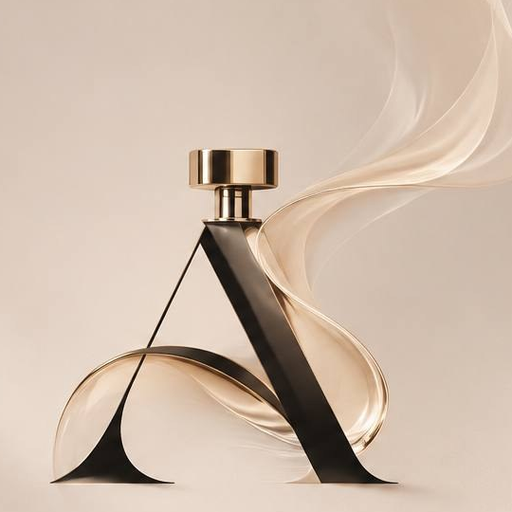
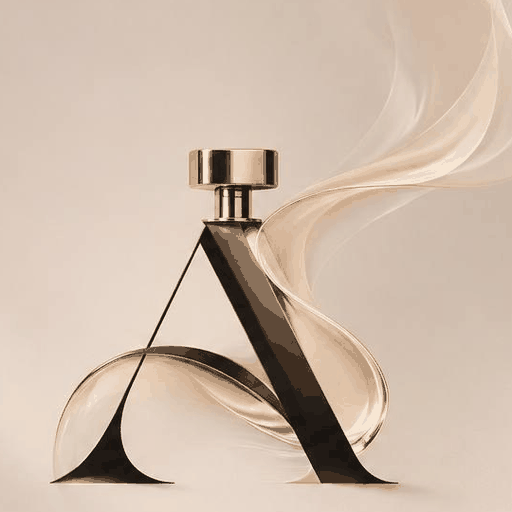
Мобильная версия: первый экран, зоны нажатия, поля 16px, WebP и лёгкая отрисовка
- картинка первого экрана больше не растягивается по высоте: заголовок и поиск видны сразу
- изображения в WebP с уменьшенными версиями для телефона, предзагрузка картинки главной
- поля ввода 16px (iOS не увеличивает страницу), зоны нажатия от 44px
- на телефоне без размытия под шапкой и двойных теней, секции ниже экрана рисуются по мере прокрутки
- эффекты наведения только для устройств с курсором

Claude-Session: https://claude.ai/code/session_01EamBPJPH8KeKa6rHJzHxQq

diff --git a/assets/css/style.css b/assets/css/style.css
@@ -34,6 +34,7 @@ img, svg { display: block; max-width: 100%; }
 a { color: inherit; text-decoration: none; }
 button, input, select, textarea { font: inherit; color: inherit; }
 button { cursor: pointer; background: none; border: 0; padding: 0; }
+a, button, label, summary, input, select { -webkit-tap-highlight-color: transparent; touch-action: manipulation; }
 h1, h2, h3, p, ul, dl, dd, fieldset, legend { margin: 0; padding: 0; }
 fieldset { border: 0; min-width: 0; }
 ul { list-style: none; }
@@ -185,7 +186,7 @@ main { min-height: 60vh; padding-bottom: clamp(72px, 10vw, 140px); }
 }
 .hero__art { position: relative; }
 .hero__art img {
-  width: 138%; max-width: none; margin-left: -10%; aspect-ratio: 10 / 7; object-fit: cover;
+  width: 138%; height: auto; max-width: none; margin-left: -10%; aspect-ratio: 10 / 7; object-fit: cover;
   -webkit-mask-image: radial-gradient(ellipse 50% 50% at 50% 50%, #000 52%, transparent 100%);
   mask-image: radial-gradient(ellipse 50% 50% at 50% 50%, #000 52%, transparent 100%);
   animation: veil 1.6s var(--ease) both;
@@ -231,8 +232,11 @@ main { min-height: 60vh; padding-bottom: clamp(72px, 10vw, 140px); }
 .pick__notes { font-size: .9375rem; color: var(--ink-soft); }
 .pick__price { text-align: right; white-space: nowrap; font-weight: 400; }
 .pick__price small { display: block; font-size: .8125rem; font-weight: 400; color: var(--ink-soft); }
-.pick:hover, .pick:focus-visible { padding-left: 16px; padding-right: 16px; background: var(--milk); }
-.pick:hover .pick__name, .pick:focus-visible .pick__name { color: var(--bronze-deep); }
+.pick:focus-visible { padding-left: 16px; padding-right: 16px; background: var(--milk); }
+@media (hover: hover) {
+  .pick:hover { padding-left: 16px; padding-right: 16px; background: var(--milk); }
+  .pick:hover .pick__name { color: var(--bronze-deep); }
+}
 .picks__more { display: inline-block; margin-top: 28px; }
 
 /* Карточка аромата */
@@ -244,7 +248,7 @@ main { min-height: 60vh; padding-bottom: clamp(72px, 10vw, 140px); }
 }
 .card__art { aspect-ratio: 4 / 5; }
 .card__art svg { width: 74%; height: auto; margin-top: 9%; transition: transform .5s var(--ease); }
-.card:hover .card__art svg { transform: translateY(-6px); }
+@media (hover: hover) { .card:hover .card__art svg { transform: translateY(-6px); } }
 .fav {
   position: absolute; top: 0; right: 0; width: 44px; height: 44px; border-radius: 50%;
   display: grid; place-items: center; background: var(--powder);
@@ -308,7 +312,8 @@ main { min-height: 60vh; padding-bottom: clamp(72px, 10vw, 140px); }
     linear-gradient(to top, var(--tint) 0, var(--tint) 13%, color-mix(in srgb, var(--tint) 62%, #FBF7F2) 20%, color-mix(in srgb, var(--tint) 24%, #FBF7F2) 29%, #FBF7F2 40%);
   clip-path: polygon(0 0, 100% 0, 100% 86%, 50% 100%, 0 86%);
 }
-.blotter:hover .blotter__strip, .blotter:focus-visible .blotter__strip { transform: translateY(-12px); }
+.blotter:focus-visible .blotter__strip { transform: translateY(-12px); }
+@media (hover: hover) { .blotter:hover .blotter__strip { transform: translateY(-12px); } }
 .blotter b { margin-top: 20px; font-weight: 500; font-size: .9375rem; line-height: 1.25; transition: color .25s; }
 .blotter:hover b, .blotter:focus-visible b { color: var(--bronze-deep); }
 .blotter em { margin-top: 3px; font-style: normal; font-size: .8125rem; color: var(--ink-soft); }
@@ -494,7 +499,7 @@ input[type="range"] { width: 100%; accent-color: var(--bronze-deep); margin-top:
 .menu a[aria-current="page"] { color: var(--bronze-deep); }
 .drawer__head { display: flex; align-items: center; justify-content: space-between; padding: 20px 20px 16px 28px; border-bottom: 1px solid rgba(33, 21, 11, .14); }
 .drawer__head h2 { font-family: var(--serif); font-weight: 500; font-size: 2rem; line-height: 1; }
-.drawer__body { flex: 1; overflow: auto; display: flex; flex-direction: column; }
+.drawer__body { flex: 1; overflow: auto; overscroll-behavior: contain; display: flex; flex-direction: column; }
 .cart-list { padding: 4px 28px; flex: 1; }
 .line { display: grid; grid-template-columns: 72px 1fr auto; gap: 16px; padding: 20px 0; border-bottom: 1px solid rgba(33, 21, 11, .12); align-items: start; }
 .line__art { aspect-ratio: 4 / 5; border-radius: 999px 999px 4px 4px; }
@@ -506,7 +511,7 @@ input[type="range"] { width: 100%; accent-color: var(--bronze-deep); margin-top:
 .line__side b { font-weight: 500; white-space: nowrap; }
 .line__del { font-size: .8125rem; color: var(--ink-soft); text-decoration: underline; text-underline-offset: 3px; }
 .line__del:hover { color: var(--ink); }
-.cart-foot { padding: 22px 28px 28px; border-top: 1px solid rgba(33, 21, 11, .14); background: var(--milk); }
+.cart-foot { padding: 22px 28px calc(28px + env(safe-area-inset-bottom, 0px)); border-top: 1px solid rgba(33, 21, 11, .14); background: var(--milk); }
 .total { display: flex; justify-content: space-between; align-items: baseline; margin-bottom: 6px; }
 .total b { font-family: var(--sans); font-weight: 400; font-size: 1.625rem; line-height: 1; }
 .cart-foot small { display: block; color: var(--ink-soft); font-size: .875rem; margin-bottom: 18px; }
@@ -613,13 +618,47 @@ input[type="range"] { width: 100%; accent-color: var(--bronze-deep); margin-top:
   .grid { grid-template-columns: 1fr 1fr; gap: 32px 14px; }
   .card__name { font-size: 1.3125rem; }
   .ladder { --k: .6; gap: 2px; }
-  .ladder button { font-size: .6875rem; min-width: 0; white-space: nowrap; }
+  .ladder button { min-width: 0; white-space: nowrap; }
   .form__row { grid-template-columns: 1fr; }
   .pyramid div { grid-template-columns: 1fr; gap: 4px; }
   .footer__in { grid-template-columns: 1fr; }
   .sort span { display: none; }
   .hero__art { max-width: 300px; margin: -14px auto -26px; }
-  .toast { bottom: 16px; }
+  .toast { bottom: calc(16px + env(safe-area-inset-bottom, 0px)); }
+
+  /* Поля не меньше 16px — иначе iOS увеличивает страницу при фокусе */
+  .search input, .sort select, .field, .filters input[type="search"] { font-size: 1rem; }
+
+  /* Зоны нажатия не меньше 44px */
+  .footer__col a { padding: 11px 0; }
+  .brands a { padding: 10px 0; }
+  .crumbs { gap: 4px; margin-bottom: 16px; }
+  .crumbs a, .crumbs span { padding: 11px 4px 11px 0; }
+  .link, .line__del { padding-top: 10px; padding-bottom: 10px; }
+  .picks__more { margin-top: 18px; }
+  .chip { min-height: 44px; }
+  .sort select { min-height: 44px; }
+  .qty--sm { height: 44px; }
+  .qty--sm button { width: 42px; }
+  .check { padding: 11px 0; }
+  .letters a { width: 44px; height: 44px; }
+  .finder__hint { line-height: 2.1; }
+  .brandline { line-height: 1.55; }
+  .card__brand { display: inline-block; padding: 6px 0; }
+  .product__brand { display: inline-block; padding: 12px 0; }
+  .toolbar { gap: 10px; margin-bottom: 22px; }
+  .chips { order: 3; flex-basis: 100%; }
+  .chips:empty { display: none; }
+  .toolbar__filters { min-height: 44px; }
+  .product h1 { margin-top: 0; }
+  .card__name a { display: block; padding: 4px 0; }
+  .ladder button { font-size: .75rem; padding-top: 10px; }
+  .ladder small { font-size: 1em; }
+
+  /* Меньше работы для телефона: без размытия под шапкой и двойных теней, секции ниже экрана рисуются по мере прокрутки */
+  .header { background: var(--powder); backdrop-filter: none; -webkit-backdrop-filter: none; }
+  .blotter__strip { filter: drop-shadow(0 6px 8px rgba(33, 21, 11, .1)); }
+  .decant ~ .section, .footer { content-visibility: auto; contain-intrinsic-size: auto 600px; }
 }
 @media (prefers-reduced-motion: reduce) {
   *, *::before, *::after { animation: none !important; transition: none !important; scroll-behavior: auto !important; }

diff --git a/assets/js/app.js b/assets/js/app.js
@@ -221,7 +221,7 @@
       '<button class="icon-btn" type="submit" aria-label="Найти"><svg viewBox="0 0 24 24" aria-hidden="true"><circle cx="11" cy="11" r="6.5"/><path d="M16 16l5 5"/></svg></button></div>' +
       '<div class="search__results" hidden></div>' +
       '<p class="finder__hint">В каталоге больше 30 000 позиций. Часто ищут: ' + asked + '.</p></form></div>' +
-      '<div class="hero__art"><img src="assets/img/logo-mark.jpg" width="800" height="560" alt="Знак «Ароматно и точка»: буква А в виде парфюмерного флакона с золотой крышкой"></div>' +
+      '<div class="hero__art"><img src="assets/img/logo-mark.webp" srcset="assets/img/logo-mark-480.webp 480w, assets/img/logo-mark.webp 800w" sizes="(max-width: 720px) 300px, (max-width: 900px) 480px, 60vw" width="800" height="560" fetchpriority="high" decoding="async" alt="Знак «Ароматно и точка»: буква А в виде парфюмерного флакона с золотой крышкой"></div>' +
       '</div></section>' +
 
       '<section class="section wrap duo picks">' +
@@ -466,7 +466,7 @@
       ['Оперативная доставка по всей России', 'Быстро собираем заказы и отправляем в любой город. Флаконы и атомайзеры упаковываем так, чтобы они доехали целыми.', 'delivery', 'Доставка и оплата']
     ];
     return '<section class="about"><h1 class="visually-hidden">О магазине «Ароматно и точка»</h1>' +
-      '<div class="about__logo"><img src="assets/img/logo-full.jpg" width="1536" height="1024" alt="Логотип «Ароматно и точка»: буква А в виде парфюмерного флакона и название магазина"></div>' +
+      '<div class="about__logo"><img src="assets/img/logo-full.webp" srcset="assets/img/logo-full-768.webp 768w, assets/img/logo-full.webp 1536w" sizes="(max-width: 1040px) 100vw, 1040px" width="1536" height="1024" decoding="async" alt="Логотип «Ароматно и точка»: буква А в виде парфюмерного флакона и название магазина"></div>' +
       '<div class="wrap about__rows">' + rows.map(function (r) {
         return '<div class="about__row"><h2 class="h2">' + r[0] + '</h2>' +
           '<div><p>' + r[1] + '</p><a class="link" href="#' + r[2] + '"' + (r[2] === 'catalog' ? ' data-action="reset-go"' : '') + '>' + r[3] + '</a></div></div>';

diff --git a/index.html b/index.html
@@ -21,6 +21,15 @@
 <link rel="icon" href="assets/img/icon-192.png" type="image/png" sizes="192x192">
 <link rel="apple-touch-icon" href="assets/img/icon-180.png">
 <link rel="manifest" href="site.webmanifest">
+<script>
+  // Главной сразу нужна картинка первого экрана — начинаем грузить её до скриптов
+  if (!/^#(?!decant$)./.test(location.hash)) {
+    var l = document.createElement('link'); l.rel = 'preload'; l.as = 'image';
+    l.setAttribute('imagesrcset', 'assets/img/logo-mark-480.webp 480w, assets/img/logo-mark.webp 800w');
+    l.setAttribute('imagesizes', '(max-width: 720px) 300px, (max-width: 900px) 480px, 60vw');
+    l.setAttribute('fetchpriority', 'high'); document.head.appendChild(l);
+  }
+</script>
 <link rel="preconnect" href="https://fonts.googleapis.com">
 <link rel="preconnect" href="https://fonts.gstatic.com" crossorigin>
 <link href="https://fonts.googleapis.com/css2?family=Cormorant+Garamond:wght@500;600&family=Golos+Text:wght@400;500&display=swap" rel="stylesheet">
@@ -129,8 +138,8 @@
 
 <div class="toast" id="toast" role="status" aria-live="polite"></div>
 
-<script src="assets/js/config.js"></script>
-<script src="assets/js/data.js"></script>
-<script src="assets/js/app.js"></script>
+<script src="assets/js/config.js" defer></script>
+<script src="assets/js/data.js" defer></script>
+<script src="assets/js/app.js" defer></script>
 </body>
 </html>
